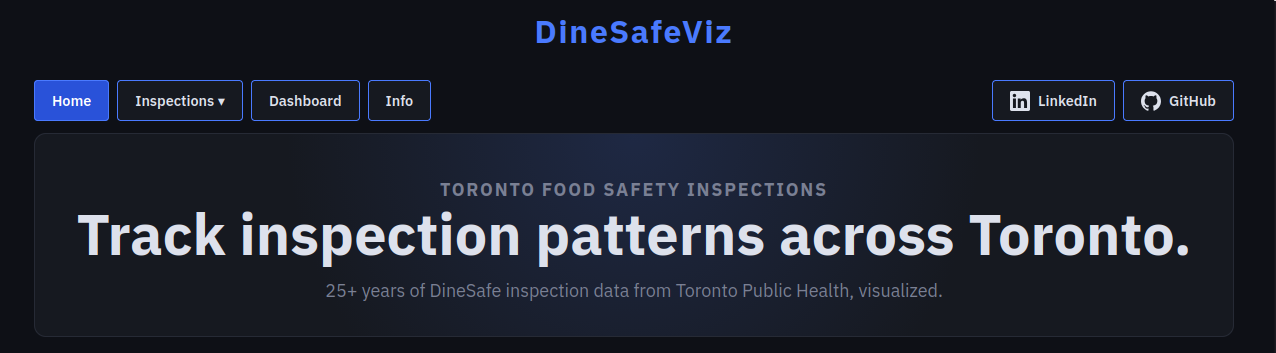
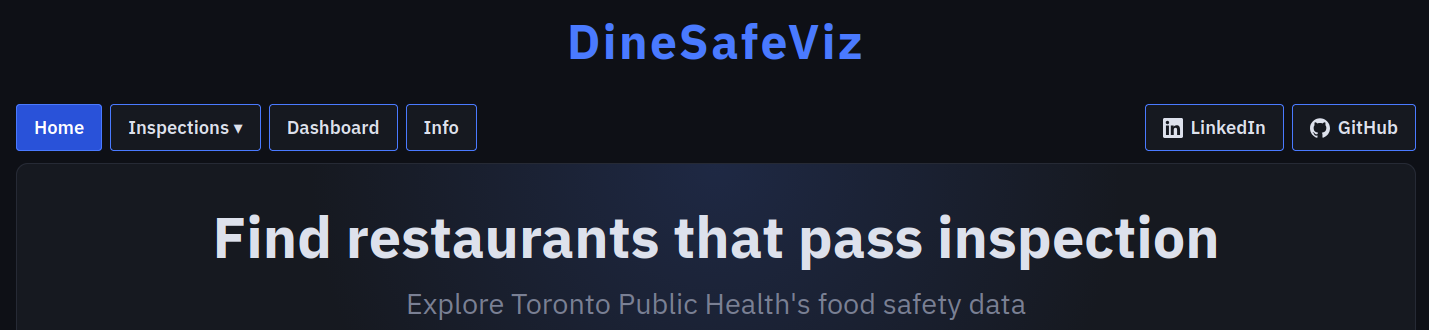
update v0.4.0 readme (#244)
* update readme screenshots home, inspections, dashboard #240 #241

* update v0.4.0 readme #239

* update realease drafter content

---------

diff --git a/README.md b/README.md
@@ -1,103 +1,35 @@
 # DineSafeViz
 
-DineSafeViz visualizes data from DineSafe, Toronto Public Health's food
-safety and inspection program.
+## 1. Introduction
+DineSafeViz is a containerized web app that builds inspection reports and
+interactive analytics from Toronto Public Health's food safety data.
 
-It's a self-hosted containerized web app that publishes and visualizes 26+ years
-of inspection results.
+The app retrieves and parses the DineSafe dataset (Toronto Public Health's food
+safety program) from the City of Toronto's Open Data Portal.
 
 ![DineSafeViz home page](docs/img/root-readme/dsv-home-1.png)
 
-## Features
+## 2. Features
 
-### Inspection results
+### 2.1 Inspection results
 
-Browse the complete list of DineSafe inspection results.
+Check when an establishment was inspected and whether there were any health
+code violations.
 
-![Inspection results page](docs/img/root-readme/inspec-1.png)
+![Inspection results page](docs/img/root-readme/dsv-inspect-1.png)
 
-### Analytics dashboard
+### 2.2 Analytics dashboard
 
-View a stats breakdown of inspection results. Filter by any date range
-across over 26 years of data.
+Explore and get a statistical breakdown of **over 26 years** of inspection data.
 
-![DSV Analytics dashboard](docs/img/root-readme/dsv-dash-1.png)
+![DineSafeViz analytics dashboard](docs/img/root-readme/dsv-dash-1.png)
 
-### Self-hosted
+## 3. Technology stack
 
-Small footprint. Deploys to a self-hosted Ubuntu VM in a Proxmox environment.
-
-### Infrastructure as code
-
-Uses [infrastructure as code](docs/explanation/4-infrastructure-as-code.md) to automate VM
-provisioning and app deployment.
-
-## Architecture
-
-The DineSafeViz application is a dockerized web app with a database backend. It
-visualizes historic data and updates the dataset daily.
-
-![DineSafeViz Application - Simple](docs/img/root-readme/dsv-app-simple.png)
-
-> [!NOTE]
-> Data update feature: coming soon.
-
-For details, see the
-[architecture reference](docs/explanation/2-application-architecture.md) and the
-[DevOps reference](docs/explanation/README.md).
-
-### Application architecture
-
-The DineSafeViz app has [three main services](docker-compose.yml), one edge
-service, and two supporting services.
-
-#### Main services
-
-1. dsv-app: the Flask web app that serves inspection data and the metrics
-   dashboard. It listens on internal port 8000.
-2. dsv-db: a PostgreSQL database that stores the City of Toronto DineSafe
-   dataset.
-3. dsv-analytics: a Grafana-based metrics dashboard that visualizes DineSafe
-   data.
-
-#### Edge service
-
-- dsv-nginx: the reverse proxy and entry point on host port 8080. It routes
-  requests to `dsv-app` and proxies `/analytics/` to `dsv-analytics`.
-
-#### Supporting services
-
-These are one-off services for the initial setup of a fresh deployment in a VM.
-
-1. dsv-init-db: seeds the database on first run, and refreshes recent data on
-   later runs.
-2. dsv-init-analytics: seeds the initial Grafana dashboard.
-
-![Architecture overview diagram](docs/img/root-readme/arch-over.drawio.png)
-
-### [Infrastructure as code](docs/explanation/4-infrastructure-as-code.md)
-
-Terraform, Packer, and Ansible are the infrastructure as code tools that
-automatically:
-
-- Provision an app VM.
-- Maintain an app image.
-- Deploy, tear down, and redeploy an application.
-
-### [Information security](docs/explanation/6-security-architecture.md)
-
-The app's Docker Compose configuration is retrieved from a `.env` file. Secrets
-are stored in
-[secrets.yml](infra/ansible/vault/secrets.yml) and are injected into the `.env`
-file during deployment via IaC.
-
-## Getting started
-
-- **[Install guide](docs/how-to/1-install/README.md):** instructions for
-  installing the application and provisioning the infrastructure from scratch.
-- **[Redeploy guide](docs/how-to/4-redeploy.md):** instructions to
-  redeploy the app to existing infrastructure.
-
-## Roadmap
-
-See the [project roadmap](https://github.com/users/im-kenough/projects/11).
+| Layer          | Technology                               |
+| -------------- | ---------------------------------------- |
+| Web app        | Python, Flask, Gunicorn                  |
+| Database       | PostgreSQL                               |
+| Analytics      | Grafana                                  |
+| Reverse proxy  | nginx                                    |
+| Containers     | Docker, Docker Compose                   |
